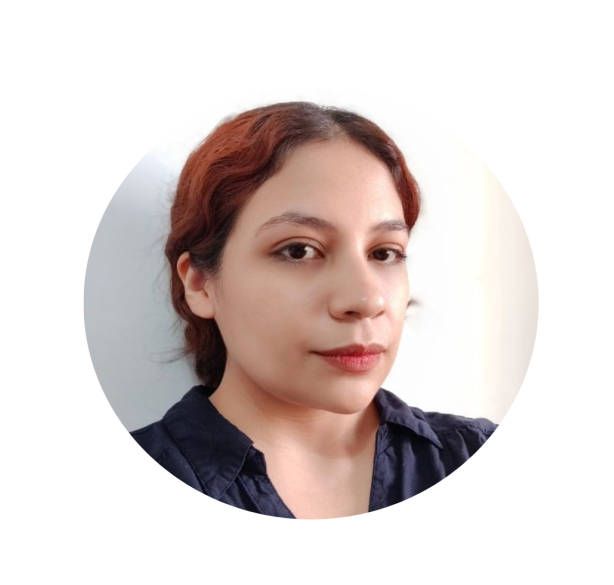
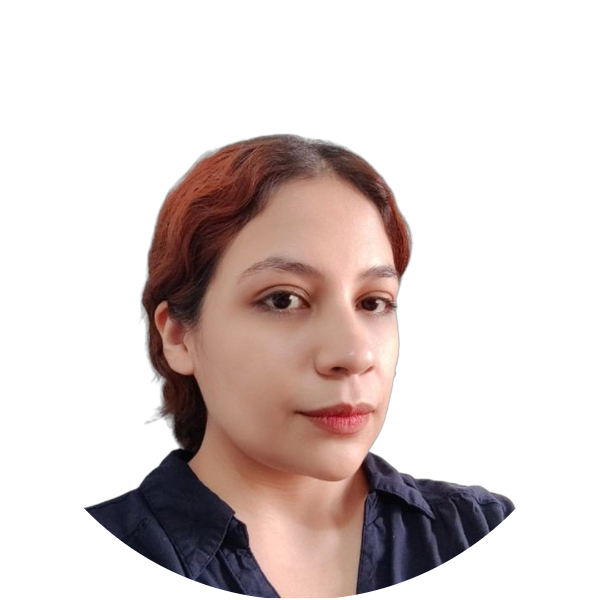
Agragadas las imagenes de nosotros al carrusel

diff --git a/HTML/acercaDeNosotros.html b/HTML/acercaDeNosotros.html
@@ -188,7 +188,7 @@
 
           <!-- foto de miguel -->
           <div class="carousel-item">
-            <img src="../SRC/img-feature-members/miguel.jpg" class="d-block" alt="..." />
+            <img src="../SRC/img-feature-members/miguel.png" class="d-block" alt="..." />
             <div class="carousel-caption d-none d-md-block">
               <h5>Miguel Ortega</h5>
               <p>
